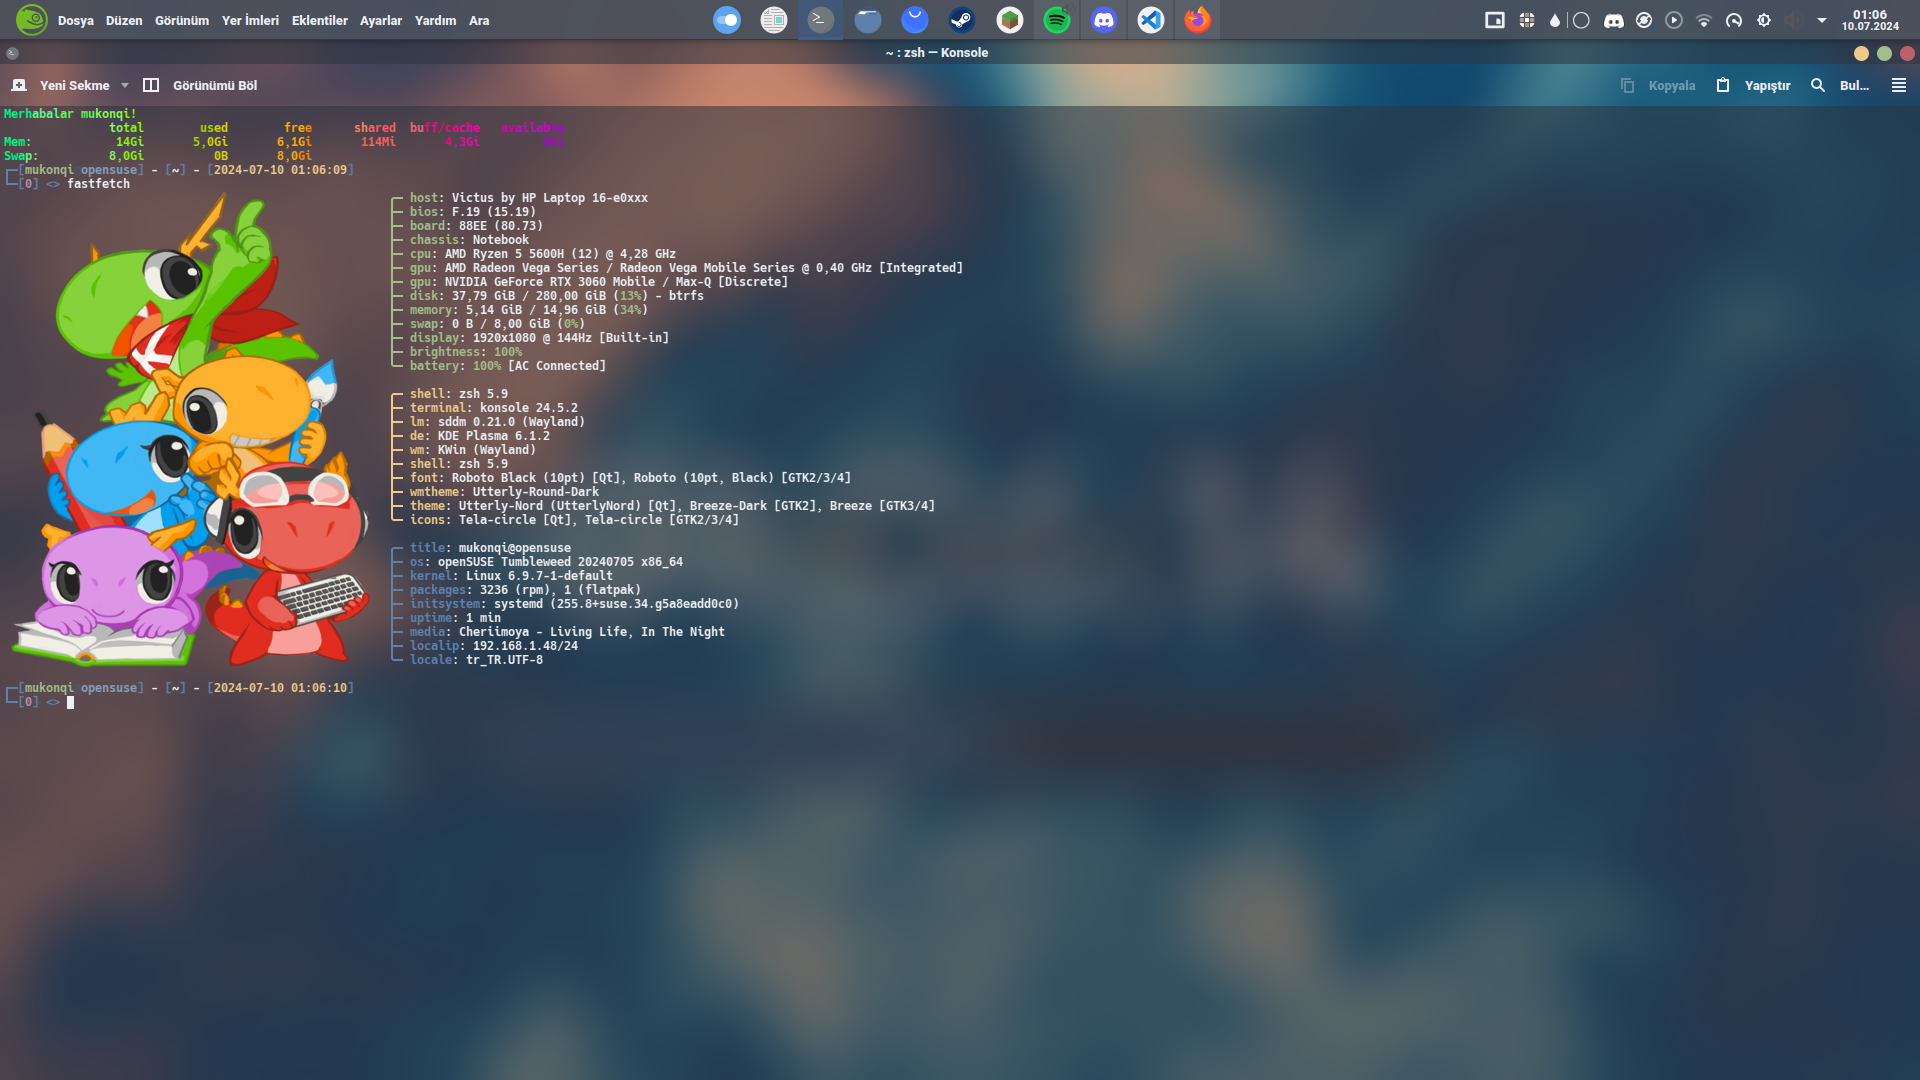
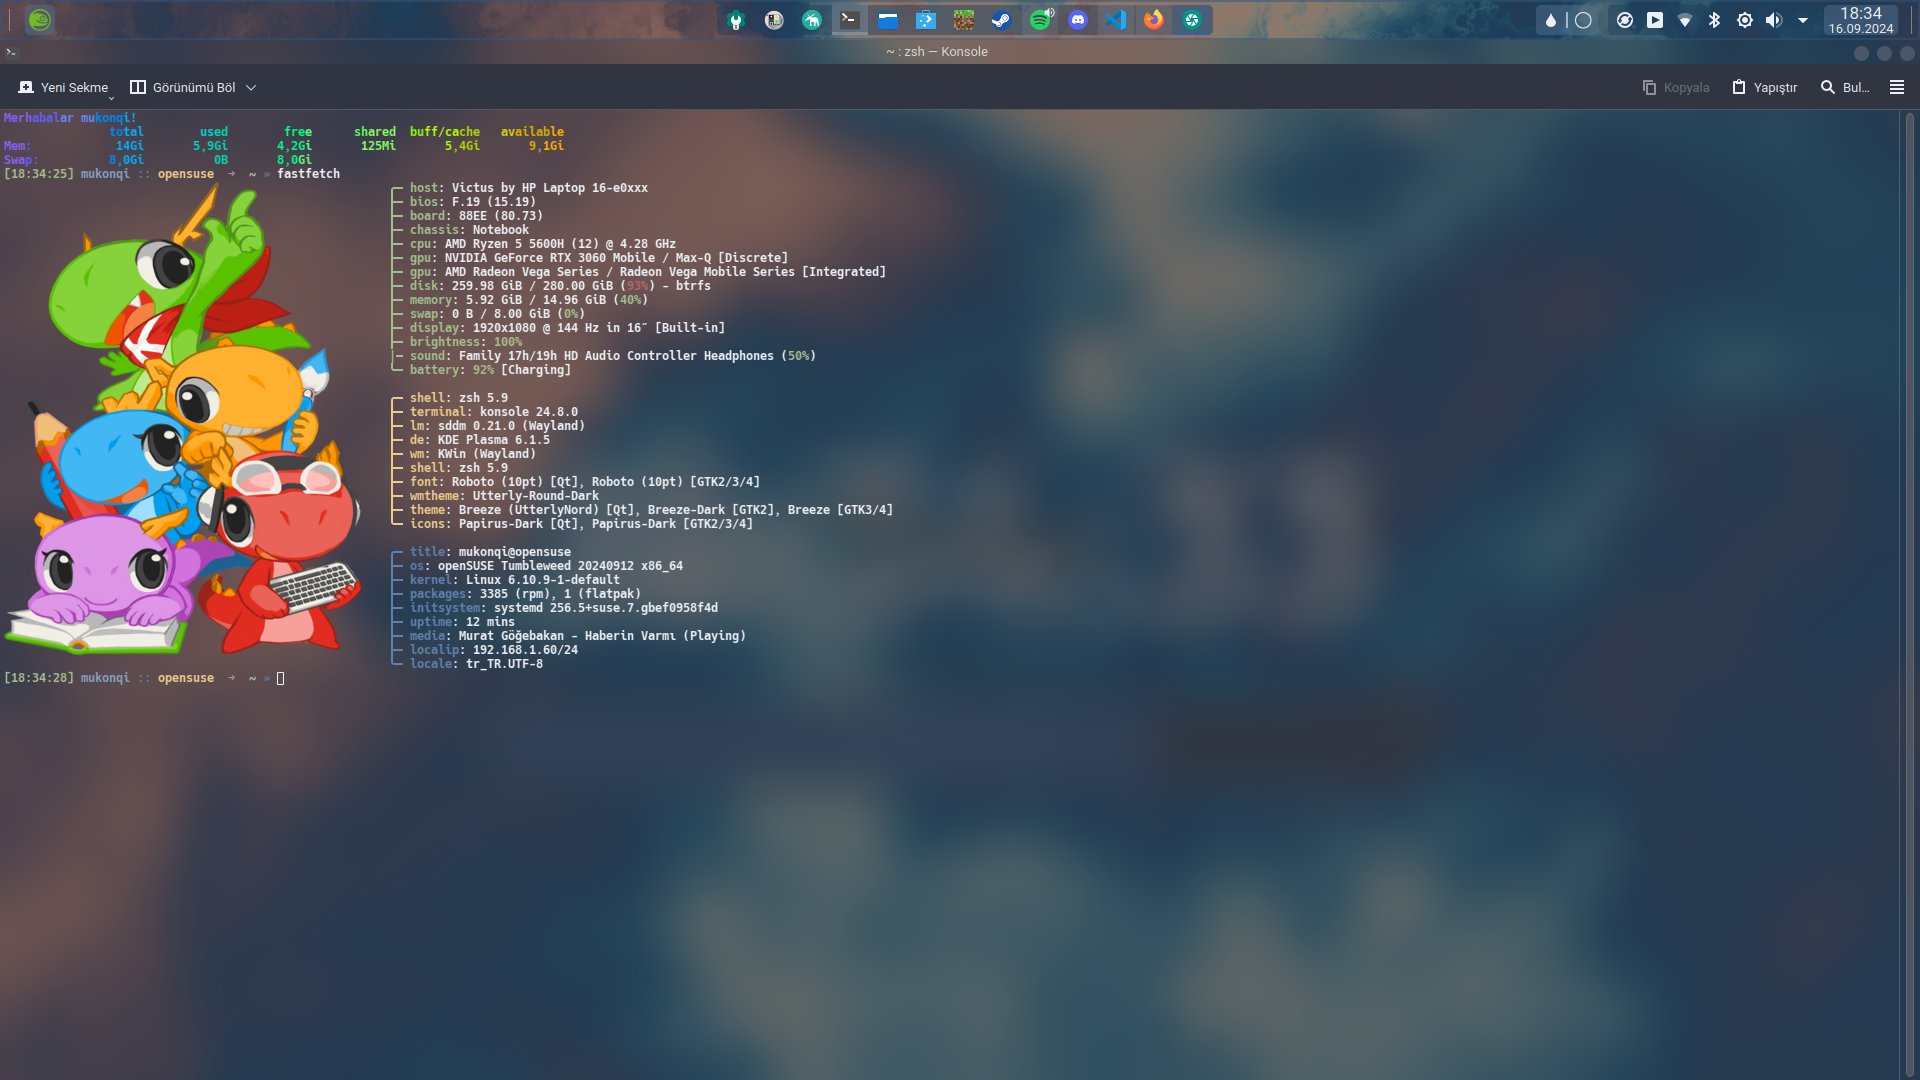
Update: Outdated texts and images and more (11.6.3)

diff --git a/personal/turkish/index.html b/personal/turkish/index.html
@@ -30,12 +30,12 @@
     <div class="content">
         <h1>Özet</h1>
         <p>Herkese merhaba, ben MuKonqi (Muhammed S.)!</p>
-        <p>15. yılımı bitirdim, 16. yılımı bitiriyorum.</p>
-        <p>Türkiye'de bir öğrenciyim, Bursa Anadolu Lisesinde 9. sınıfım.</p>
+        <p>Dünyada 15. yılımı bitirdim, 16. yılımı bitiriyorum.</p>
+        <p>Türkiye'de bir öğrenciyim, Bursa Anadolu Lisesinde 10. sınıfım.</p>
         <p>Basit projeler (bu ve GrelinTB gibi) geliştirmeyi ve video oyunları oynamayı severim.</p>
         <p>Favorilerime gelirsek, favori rengim <text style="color: #376296">#376296</text>, favori dağıtımım Fedora Linux ve favori masaüstü ortamım KDE Plasma 6.</p>
         <p>Arabalarla, otobüslerle, tırlarla ve bilgisayarlarla ilgiliyim.</p>
-        <p>Bu arada az çok Python, CustomTkinter, Tkinter, HTML, CSS, JS bilirim.</p>
+        <p>Bu arada az çok Python, Qt, CustomTkinter, Tkinter, HTML, CSS, JS bilirim.</p>
         <h1>Çocukluk</h1>
         <p>Çocukluğumun çoğunu arabalarla harcadım ama artık eskisi kadar ilgili değilim.</p>
         <h1>2020</h1>
@@ -130,11 +130,11 @@
             <li><text style="color: #376296;">Wayland Dizgicisi:</text> KWin</li><br>
             <li><text style="color: #376296;">Pencere Sunucusu:</text> Wayland</li><br>
             <li><text style="color: #376296;">Renkler:</text> Utterly-Nord, özel vurgu rengi olarak #376296 ile</li><br>
-            <li><text style="color: #376296;">Uygulama Teması (Qt):</text> Utterly-Nord, kendi özelleştirmelerim ile</li><br>
+            <li><text style="color: #376296;">Uygulama Teması (Qt):</text> Breeze</li><br>
             <li><text style="color: #376296;">Uygulama Teması (GTK):</text> Breeze</li><br>
             <li><text style="color: #376296;">Plasma Teması:</text> openSUSE (renk şemasını takip eden)</li><br>
             <li><text style="color: #376296;">Pencere Dekorasyonları:</text> Utterly-Round-Dark</li><br>
-            <li><text style="color: #376296;">Simgeler:</text> Tela circle</li><br>
+            <li><text style="color: #376296;">Simgeler:</text> Papirus-dark</li><br>
             <li><text style="color: #376296;">İmleçler:</text> Future-cyan Cursors</li><br>
             <li><text style="color: #376296;">Sistem Sesleri:</text> Ocean</li><br>
             <li><text style="color: #376296;">Açılış Ekranı:</text> Yok</li><br>
@@ -160,7 +160,7 @@
             <li><text style="color: #376296;">Fare:</text> Logitech M171 Light Blue</li><br>
             <li><text style="color: #376296;">Akıllı Telefon:</text> Samsung Galaxy M31</li><br>
             <li><text style="color: #376296;">Tablet:</text> Lenovo Tab M10 X605L</li><br>
-            <li><text style="color: #376296;">Kulaklık:</text> iPhone 6S Plus'ınki</li><br>
+            <li><text style="color: #376296;">Kulaklık:</text> Galaxy Buds FE ve Galaxy Buds FE and the headphones that came in the box of the iPhone 6s Plusun kutusunda çıkan kulaklık</li><br>
         </div>
     </div>
     <div class="footer" id="footer">

diff --git a/personal/english/projects.html b/personal/english/projects.html
@@ -72,12 +72,12 @@
         <div id="mainpage" class="page" style="display: none;">
             <h1>Summary</h1>
             <p>Hello everyone, I'm MuKonqi (Muhammed S.)!</p>
-            <p>I finished my 15th year, I'm finishing my 16th year at the moment.</p>
-            <p>I am a student in Türkiye, I am in the 9th grade at Bursa Anatolian High School.</p>
+            <p>I finished my 15th year, I'm finishing my 16th year at the moment in the world.</p>
+            <p>I am a student in Türkiye, I am in the 10th grade at Bursa Anatolian High School.</p>
             <p>I love developing simple projects (like this one and GrelinTB), playing computer video games.</p>
             <p>As for things which my favorites, my favorite color is <text style="color: #376296">#376296</text>, my favorite distribution is Fedora Linux and my favorite DE is KDE Plasma 6.</p>
             <p>I'm interested in cars, buses, trucks and computers.</p>
-            <p>By the way I know Python, CustomTkinter, Tkinter, HTML, CSS, JS more or less.</p>
+            <p>By the way I know Python, Qt, CustomTkinter, Tkinter, HTML, CSS, JS more or less.</p>
             <h1>Childhood</h1>
             <p>I spent most of my childhood interested in cars, I love cars, but I'm not interested in them as much as I used to be.</p>
             <h1>2020</h1>
@@ -134,7 +134,7 @@
             <li><text style="color: #376296;">Application Theme (GTK):</text> Breeze</li><br>
             <li><text style="color: #376296;">Plasma Theme:</text> openSUSE (follows renk scheme)</li><br>
             <li><text style="color: #376296;">Window Decorations:</text> Utterly-Round-Dark</li><br>
-            <li><text style="color: #376296;">Icons:</text> Tela circle</li><br>
+            <li><text style="color: #376296;">Icons:</text> Papirus-dark</li><br>
             <li><text style="color: #376296;">Cursors:</text> Future-cyan Cursors</li><br>
             <li><text style="color: #376296;">System Sounds:</text> Ocean</li><br>
             <li><text style="color: #376296;">Splash Screen:</text> None</li><br>
@@ -160,7 +160,7 @@
             <li><text style="color: #376296;">Mouse:</text> Logitech M171 Light Blue</li><br>
             <li><text style="color: #376296;">Smartphone:</text> Samsung Galaxy M31</li><br>
             <li><text style="color: #376296;">Tablet:</text> Lenovo Tab M10 X605L</li><br>
-            <li><text style="color: #376296;">Headphones:</text> iPhone 6S Plus'</li><br>
+            <li><text style="color: #376296;">Headphones:</text> Galaxy Buds FE and the headphones that came in the box of the iPhone 6s Plus</li><br>
         </div>
     </div>
     <div class="footer" id="footer">

diff --git a/personal/english/setup.html b/personal/english/setup.html
@@ -38,7 +38,7 @@
         <li><text style="color: #376296;">Application Theme (GTK):</text> Breeze</li><br>
         <li><text style="color: #376296;">Plasma Theme:</text> openSUSE (follows renk scheme)</li><br>
         <li><text style="color: #376296;">Window Decorations:</text> Utterly-Round-Dark</li><br>
-        <li><text style="color: #376296;">Icons:</text> Tela circle</li><br>
+        <li><text style="color: #376296;">Icons:</text> Papirus-dark</li><br>
         <li><text style="color: #376296;">Cursors:</text> Future-cyan Cursors</li><br>
         <li><text style="color: #376296;">System Sounds:</text> Ocean</li><br>
         <li><text style="color: #376296;">Splash Screen:</text> None</li><br>
@@ -64,18 +64,18 @@
         <li><text style="color: #376296;">Mouse:</text> Logitech M171 Light Blue</li><br>
         <li><text style="color: #376296;">Smartphone:</text> Samsung Galaxy M31</li><br>
         <li><text style="color: #376296;">Tablet:</text> Lenovo Tab M10 X605L</li><br>
-        <li><text style="color: #376296;">Headphones:</text> iPhone 6S Plus'</li><br>
+        <li><text style="color: #376296;">Headphones:</text> Galaxy Buds FE and the headphones that came in the box of the iPhone 6s Plus</li><br>
         <h1>Other Pages</h1>
         <div id="mainpage_button" class="button" onclick="show_mainpage()">Main Page</div>
         <div id="mainpage" class="page" style="display: none;">
             <h1>Summary</h1>
             <p>Hello everyone, I'm MuKonqi (Muhammed S.)!</p>
-            <p>I finished my 15th year, I'm finishing my 16th year at the moment.</p>
-            <p>I am a student in Türkiye, I am in the 9th grade at Bursa Anatolian High School.</p>
+            <p>I finished my 15th year, I'm finishing my 16th year at the moment in the world.</p>
+            <p>I am a student in Türkiye, I am in the 10th grade at Bursa Anatolian High School.</p>
             <p>I love developing simple projects (like this one and GrelinTB), playing computer video games.</p>
             <p>As for things which my favorites, my favorite color is <text style="color: #376296">#376296</text>, my favorite distribution is Fedora Linux and my favorite DE is KDE Plasma 6.</p>
             <p>I'm interested in cars, buses, trucks and computers.</p>
-            <p>By the way I know Python, CustomTkinter, Tkinter, HTML, CSS, JS more or less.</p>
+            <p>By the way I know Python, Qt, CustomTkinter, Tkinter, HTML, CSS, JS more or less.</p>
             <h1>Childhood</h1>
             <p>I spent most of my childhood interested in cars, I love cars, but I'm not interested in them as much as I used to be.</p>
             <h1>2020</h1>

diff --git a/personal/turkish/projects.html b/personal/turkish/projects.html
@@ -72,12 +72,12 @@
         <div id="mainpage" class="page" style="display: none;">
             <h1>Özet</h1>
             <p>Herkese merhaba, ben MuKonqi (Muhammed S.)!</p>
-            <p>15. yılımı bitirdim, 16. yılımı bitiriyorum.</p>
-            <p>Türkiye'de bir öğrenciyim, Bursa Anadolu Lisesinde 9. sınıfım.</p>
+            <p>Dünyada 15. yılımı bitirdim, 16. yılımı bitiriyorum.</p>
+            <p>Türkiye'de bir öğrenciyim, Bursa Anadolu Lisesinde 10. sınıfım.</p>
             <p>Basit projeler (bu ve GrelinTB gibi) geliştirmeyi ve video oyunları oynamayı severim.</p>
             <p>Favorilerime gelirsek, favori rengim <text style="color: #376296">#376296</text>, favori dağıtımım Fedora Linux ve favori masaüstü ortamım KDE Plasma 6.</p>
             <p>Arabalarla, otobüslerle, tırlarla ve bilgisayarlarla ilgiliyim.</p>
-            <p>Bu arada az çok Python, CustomTkinter, Tkinter, HTML, CSS, JS bilirim.</p>
+            <p>Bu arada az çok Python, Qt, CustomTkinter, Tkinter, HTML, CSS, JS bilirim.</p>
             <h1>Çocukluk</h1>
             <p>Çocukluğumun çoğunu arabalarla harcadım ama artık eskisi kadar ilgili değilim.</p>
             <h1>2020</h1>
@@ -134,7 +134,7 @@
             <li><text style="color: #376296;">Uygulama Teması (GTK):</text> Breeze</li><br>
             <li><text style="color: #376296;">Plasma Teması:</text> openSUSE (renk şemasını takip eden)</li><br>
             <li><text style="color: #376296;">Pencere Dekorasyonları:</text> Utterly-Round-Dark</li><br>
-            <li><text style="color: #376296;">Simgeler:</text> Tela circle</li><br>
+            <li><text style="color: #376296;">Simgeler:</text> Papirus-dark</li><br>
             <li><text style="color: #376296;">İmleçler:</text> Future-cyan Cursors</li><br>
             <li><text style="color: #376296;">Sistem Sesleri:</text> Ocean</li><br>
             <li><text style="color: #376296;">Açılış Ekranı:</text> Yok</li><br>
@@ -160,7 +160,7 @@
             <li><text style="color: #376296;">Fare:</text> Logitech M171 Light Blue</li><br>
             <li><text style="color: #376296;">Akıllı Telefon:</text> Samsung Galaxy M31</li><br>
             <li><text style="color: #376296;">Tablet:</text> Lenovo Tab M10 X605L</li><br>
-            <li><text style="color: #376296;">Kulaklık:</text> iPhone 6S Plus'ınki</li><br>
+            <li><text style="color: #376296;">Kulaklık:</text> Galaxy Buds FE ve Galaxy Buds FE and the headphones that came in the box of the iPhone 6s Plusun kutusunda çıkan kulaklık</li><br>
         </div>
     </div>
     <div class="footer">

diff --git a/personal/turkish/setup.html b/personal/turkish/setup.html
@@ -38,7 +38,7 @@
         <li><text style="color: #376296;">Uygulama Teması (GTK):</text> Breeze</li><br>
         <li><text style="color: #376296;">Plasma Teması:</text> openSUSE (renk şemasını takip eden)</li><br>
         <li><text style="color: #376296;">Pencere Dekorasyonları:</text> Utterly-Round-Dark</li><br>
-        <li><text style="color: #376296;">Simgeler:</text> Tela circle</li><br>
+        <li><text style="color: #376296;">Simgeler:</text> Papirus-dark</li><br>
         <li><text style="color: #376296;">İmleçler:</text> Future-cyan Cursors</li><br>
         <li><text style="color: #376296;">Sistem Sesleri:</text> Ocean</li><br>
         <li><text style="color: #376296;">Açılış Ekranı:</text> Yok</li><br>
@@ -64,18 +64,18 @@
         <li><text style="color: #376296;">Fare:</text> Logitech M171 Light Blue</li><br>
         <li><text style="color: #376296;">Akıllı Telefon:</text> Samsung Galaxy M31</li><br>
         <li><text style="color: #376296;">Tablet:</text> Lenovo Tab M10 X605L</li><br>
-        <li><text style="color: #376296;">Kulaklık:</text> iPhone 6S Plus'ınki</li><br>
+        <li><text style="color: #376296;">Kulaklık:</text> Galaxy Buds FE ve Galaxy Buds FE and the headphones that came in the box of the iPhone 6s Plusun kutusunda çıkan kulaklık</li><br>
         <h1>Diğer Sayfalar</h1>
         <div id="mainpage_button" class="button" onclick="show_mainpage()">Hakkımda</div>
         <div id="mainpage" class="page" style="display: none;">
             <h1>Özet</h1>
             <p>Herkese merhaba, ben MuKonqi (Muhammed S.)!</p>
-            <p>15. yılımı bitirdim, 16. yılımı bitiriyorum.</p>
-            <p>Türkiye'de bir öğrenciyim, Bursa Anadolu Lisesinde 9. sınıfım.</p>
+            <p>Dünyada 15. yılımı bitirdim, 16. yılımı bitiriyorum.</p>
+            <p>Türkiye'de bir öğrenciyim, Bursa Anadolu Lisesinde 10. sınıfım.</p>
             <p>Basit projeler (bu ve GrelinTB gibi) geliştirmeyi ve video oyunları oynamayı severim.</p>
             <p>Favorilerime gelirsek, favori rengim <text style="color: #376296">#376296</text>, favori dağıtımım Fedora Linux ve favori masaüstü ortamım KDE Plasma 6.</p>
             <p>Arabalarla, otobüslerle, tırlarla ve bilgisayarlarla ilgiliyim.</p>
-            <p>Bu arada az çok Python, CustomTkinter, Tkinter, HTML, CSS, JS bilirim.</p>
+            <p>Bu arada az çok Python, Qt, CustomTkinter, Tkinter, HTML, CSS, JS bilirim.</p>
             <h1>Çocukluk</h1>
             <p>Çocukluğumun çoğunu arabalarla harcadım ama artık eskisi kadar ilgili değilim.</p>
             <h1>2020</h1>

diff --git a/personal/english/index.html b/personal/english/index.html
@@ -30,12 +30,12 @@
     <div class="content">
         <h1>Summary</h1>
         <p>Hello everyone, I'm MuKonqi (Muhammed S.)!</p>
-        <p>I finished my 15th year, I'm finishing my 16th year at the moment.</p>
-        <p>I am a student in Türkiye, I am in the 9th grade at Bursa Anatolian High School.</p>
+        <p>I finished my 15th year, I'm finishing my 16th year at the moment in the world.</p>
+        <p>I am a student in Türkiye, I am in the 10th grade at Bursa Anatolian High School.</p>
         <p>I love developing simple projects (like this one and GrelinTB), playing computer video games.</p>
         <p>As for things which my favorites, my favorite color is <text style="color: #376296">#376296</text>, my favorite distribution is Fedora Linux and my favorite DE is KDE Plasma 6.</p>
         <p>I'm interested in cars, buses, trucks and computers.</p>
-        <p>By the way I know Python, CustomTkinter, Tkinter, HTML, CSS, JS more or less.</p>
+        <p>By the way I know Python, Qt, CustomTkinter, Tkinter, HTML, CSS, JS more or less.</p>
         <h1>Childhood</h1>
         <p>I spent most of my childhood interested in cars, I love cars, but I'm not interested in them as much as I used to be.</p>
         <h1>2020</h1>
@@ -133,7 +133,7 @@
             <li><text style="color: #376296;">Application Theme (GTK):</text> Breeze</li><br>
             <li><text style="color: #376296;">Plasma Theme:</text> openSUSE (follows renk scheme)</li><br>
             <li><text style="color: #376296;">Window Decorations:</text> Utterly-Round-Dark</li><br>
-            <li><text style="color: #376296;">Icons:</text> Tela circle</li><br>
+            <li><text style="color: #376296;">Icons:</text> Papirus-dark</li><br>
             <li><text style="color: #376296;">Cursors:</text> Future-cyan Cursors</li><br>
             <li><text style="color: #376296;">System Sounds:</text> Ocean</li><br>
             <li><text style="color: #376296;">Splash Screen:</text> None</li><br>
@@ -159,7 +159,7 @@
             <li><text style="color: #376296;">Mouse:</text> Logitech M171 Light Blue</li><br>
             <li><text style="color: #376296;">Smartphone:</text> Samsung Galaxy M31</li><br>
             <li><text style="color: #376296;">Tablet:</text> Lenovo Tab M10 X605L</li><br>
-            <li><text style="color: #376296;">Headphones:</text> iPhone 6S Plus'</li><br>
+            <li><text style="color: #376296;">Headphones:</text> Galaxy Buds FE and the headphones that came in the box of the iPhone 6s Plus</li><br>
         </div>
     </div>
     <div class="footer" id="footer">
